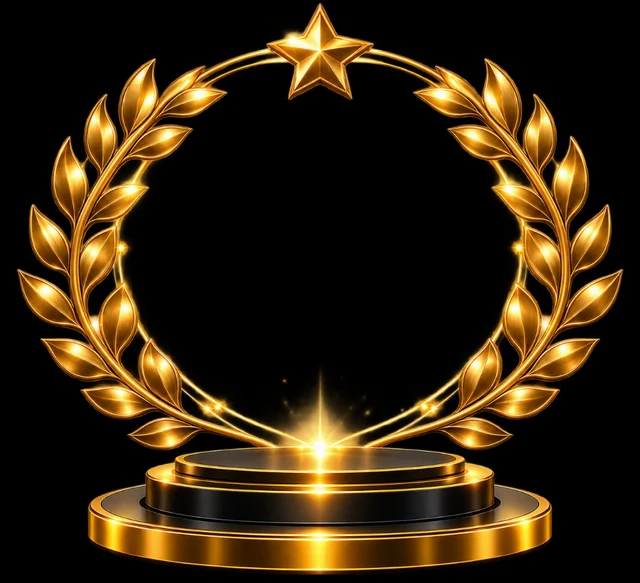
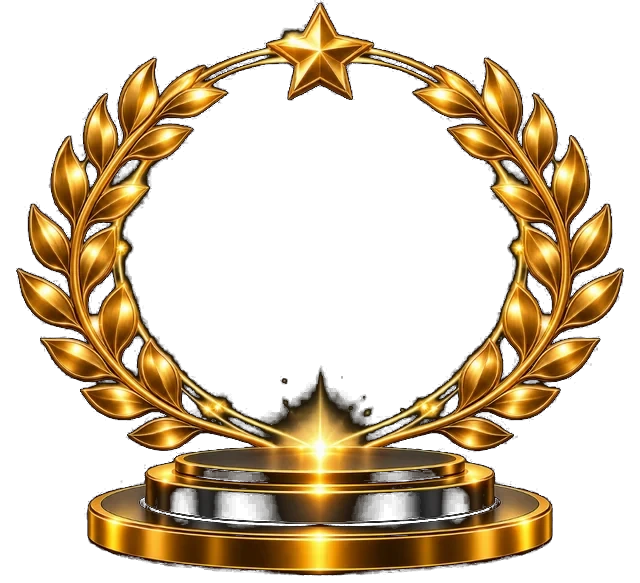
Remove podium artwork background

diff --git a/apps/web/src/components/reveal/PremiumRevealCard.tsx b/apps/web/src/components/reveal/PremiumRevealCard.tsx
@@ -109,7 +109,7 @@ function FinaleReadyPodiums() {
               <motion.img
                 src="/images/finale-podium.webp"
                 alt=""
-                className="absolute inset-0 h-full w-full object-contain mix-blend-screen"
+                className="absolute inset-0 h-full w-full object-contain"
                 animate={{ filter: ['brightness(0.82)', 'brightness(1.12)', 'brightness(0.82)'] }}
                 transition={{ duration: 3, repeat: Infinity, delay: index * 0.22, ease: 'easeInOut' }}
               />
